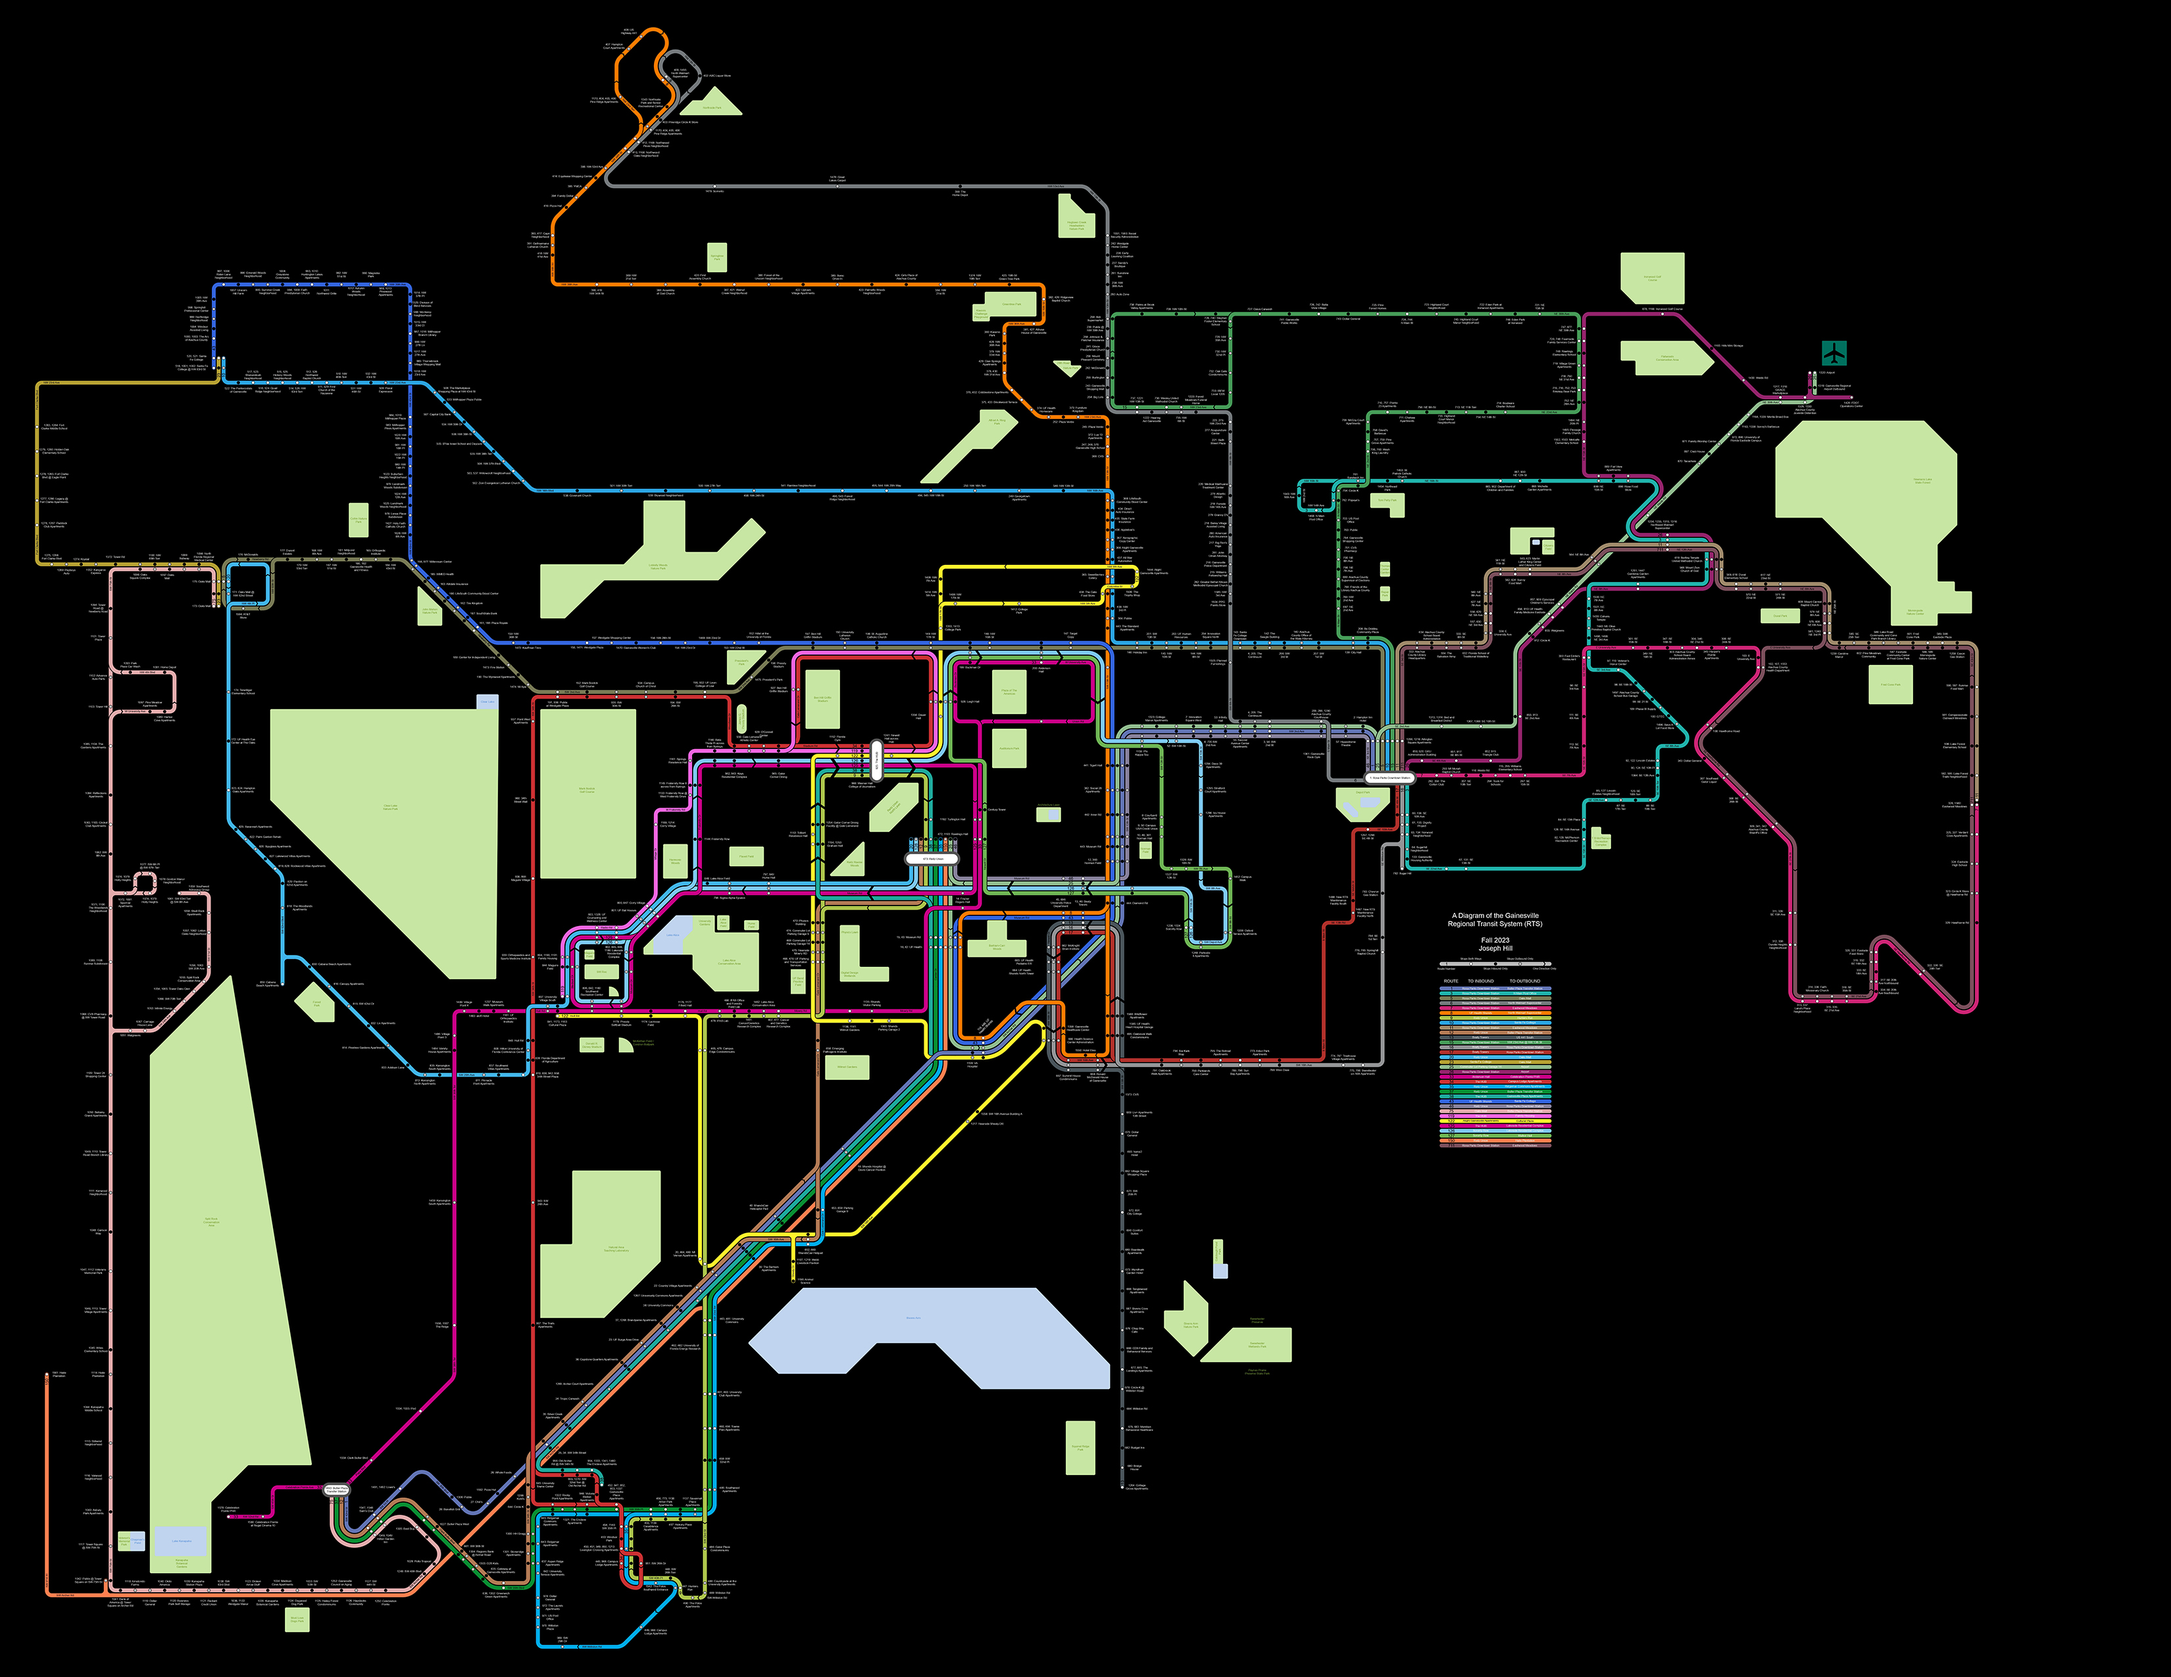
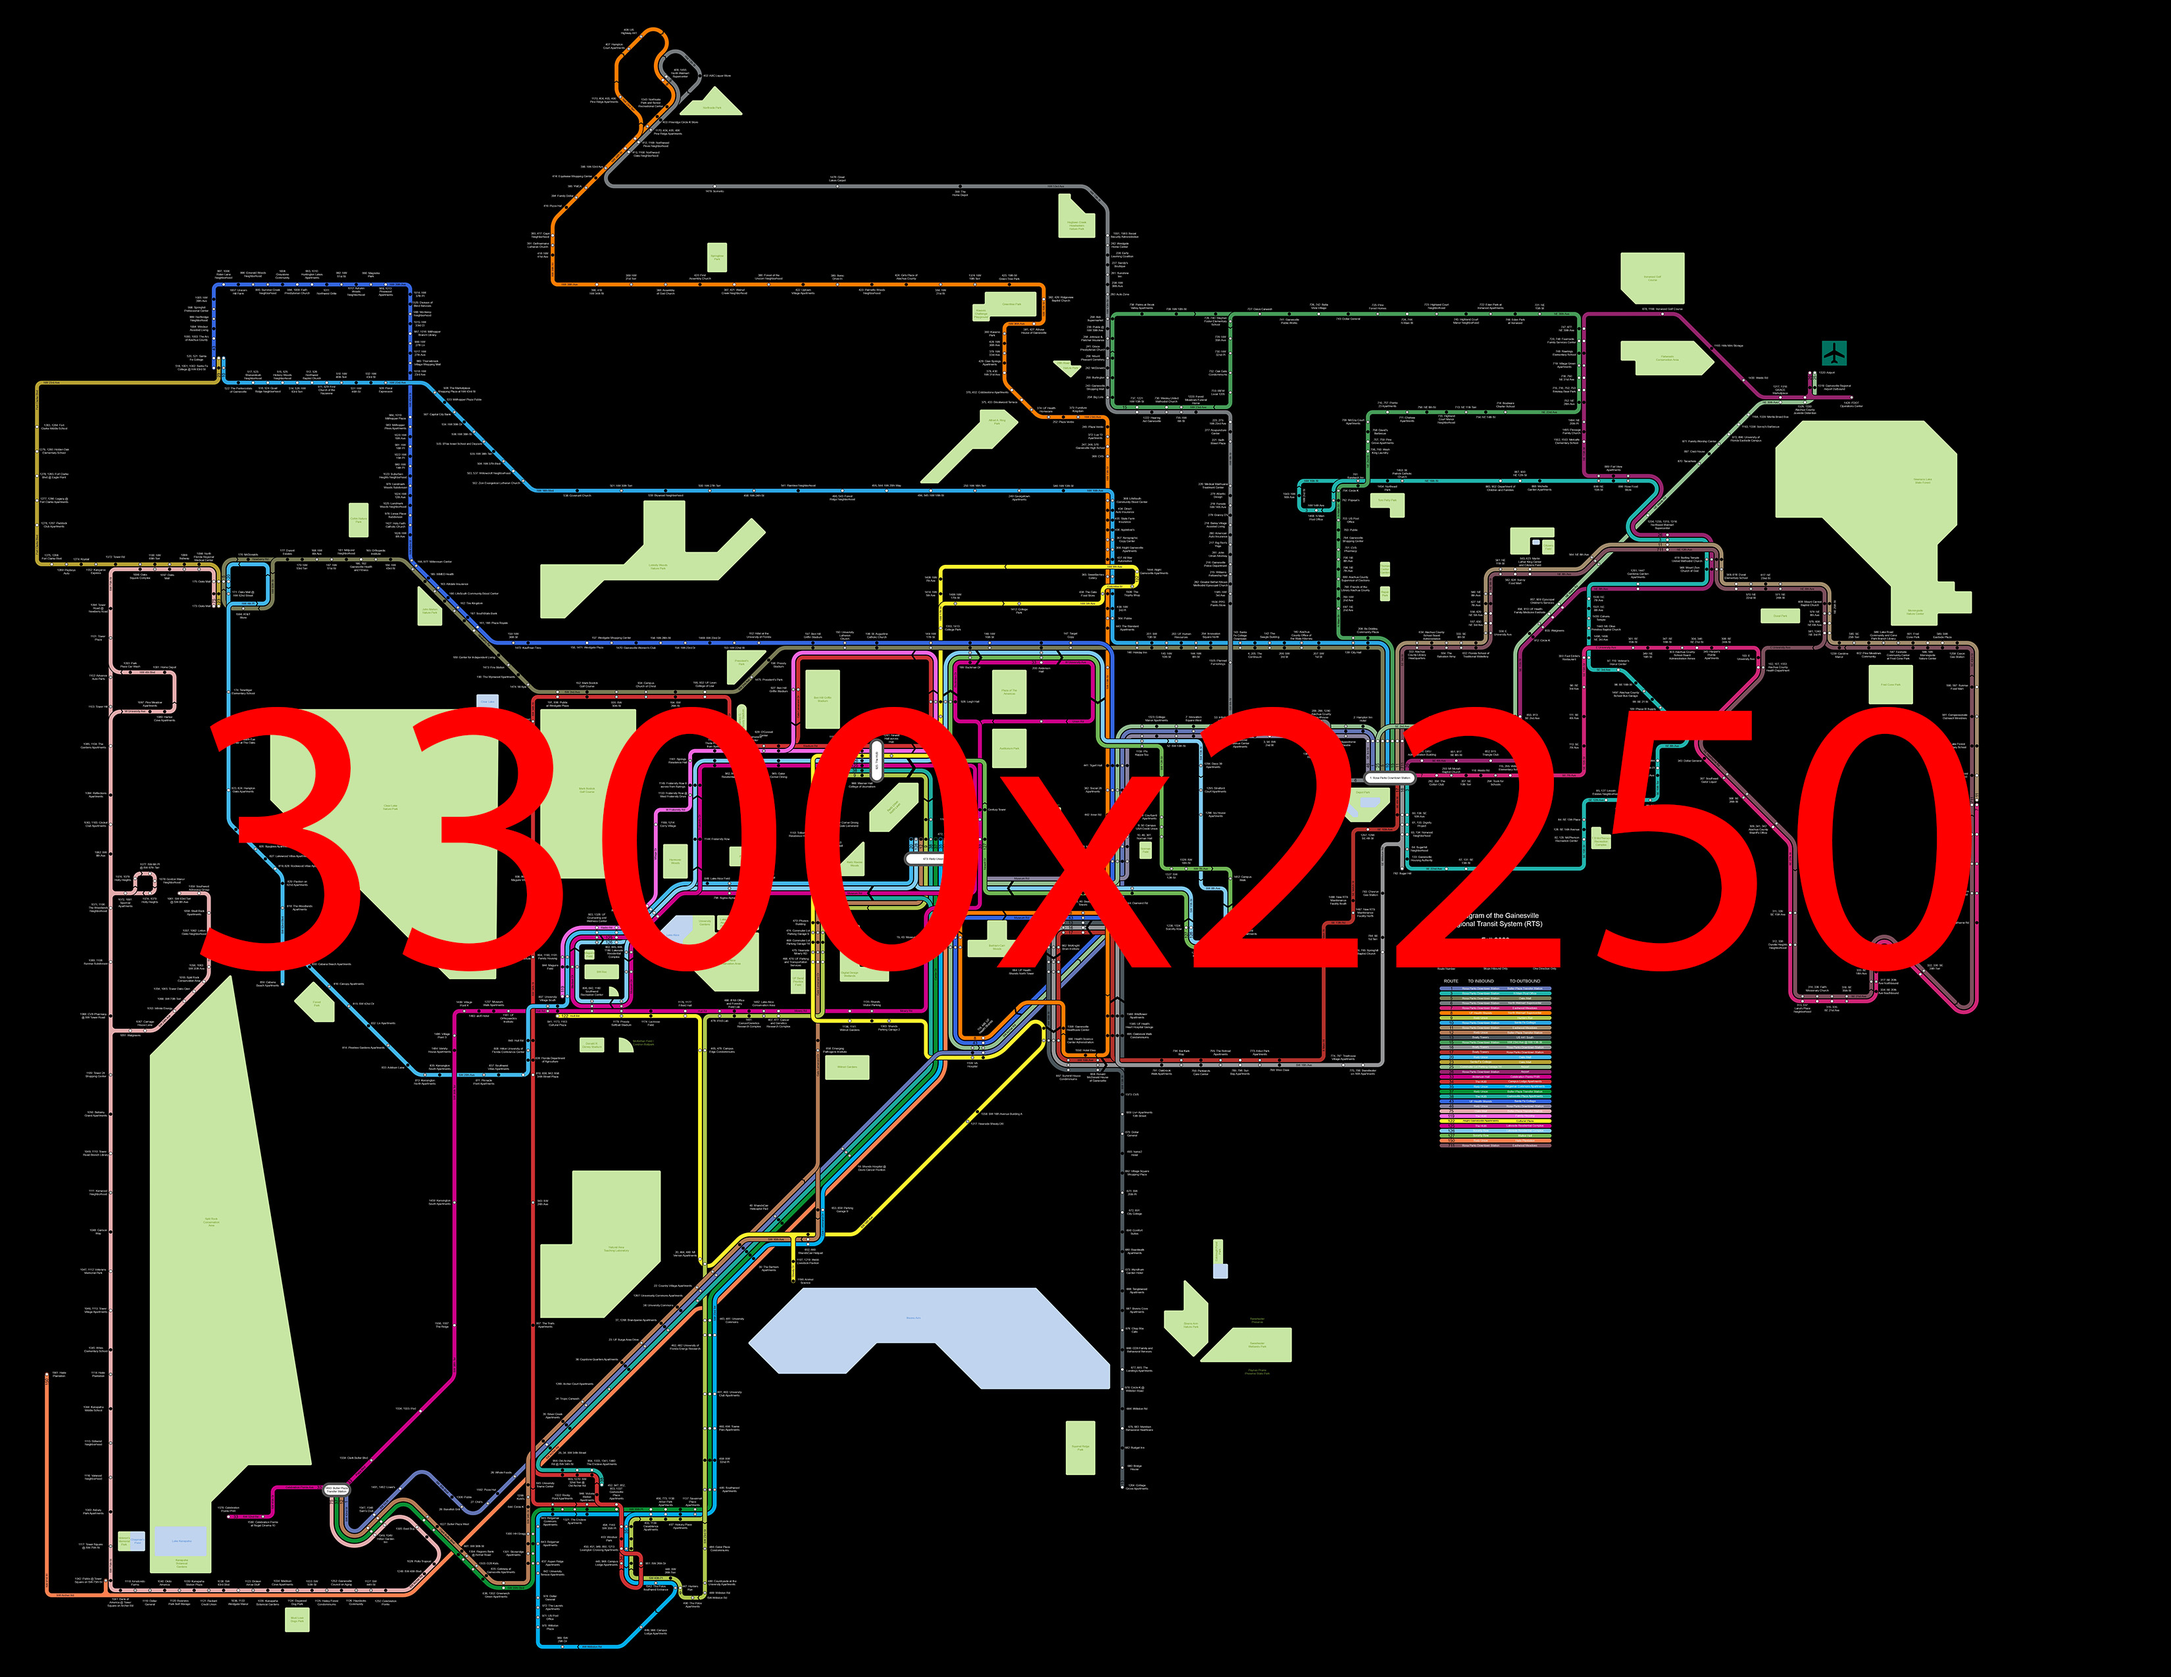
added res markers

Changed region(s): [[0.0936, 0.4027, 0.9052, 0.5886]]

diff --git a/index - Copy.html b/index - Copy.html
@@ -2,7 +2,6 @@
 <body>
 	<script src='https://cdn.jsdelivr.net/gh/JoeCode00/iterable.design@main/js/jquery/jquery.min.js' id='jquery-core-js'></script>
 	<script src='https://cdn.jsdelivr.net/gh/JoeCode00/iterable.design@main/js/jquery/ui/core.min.js' id='jquery-ui-core-js'></script>
-	
 	<script src='https://cdn.jsdelivr.net/gh/JoeCode00/iterable.design@main/js/jquery/openseadragonjquery.min.js' id='jquery-core-js'></script>
 	<script src='https://cdn.jsdelivr.net/gh/JoeCode00/iterable.design@main/js/openseadragon.min.js' id='openseadragon-js'></script>
 	<script type='text/javascript'>jQuery(document).ready(function(){var viewer=OpenSeadragon({id: 'deepzoomContainer1',prefixUrl:'https://cdn.jsdelivr.net/gh/JoeCode00/iterable.design@main/images/openseadragon/',
@@ -11,9 +10,13 @@
 	,tileSources: [
 					{title: 'Monte Verde\'s, Costa Rica © Alexey Tikhonov', type: 'legacy-image-pyramid',
 					levels:[
-	
-						{url: 'https://cdn.jsdelivr.net/gh/JoeCode00/iterable.design@main/images/RTS%20Tube%20Fall%202023%20Dark%20Mode.jpg'
-						,width: 13200,height:10200}]},
+						{url: 'https://cdn.jsdelivr.net/gh/JoeCode00/iterable.design@main/images/RTS%20Tube%20Fall%202023%20Dark%20Mode%201320x1020.jpg',	width: 1320,	height:1020},
+						{url: 'https://cdn.jsdelivr.net/gh/JoeCode00/iterable.design@main/images/RTS%20Tube%20Fall%202023%20Dark%20Mode%203300x2250.jpg',	width: 3300,	height:2250},
+						{url: 'https://cdn.jsdelivr.net/gh/JoeCode00/iterable.design@main/images/RTS%20Tube%20Fall%202023%20Dark%20Mode%206600x5100.jpg',	width: 6100,	height:5100},
+						{url: 'https://cdn.jsdelivr.net/gh/JoeCode00/iterable.design@main/images/RTS%20Tube%20Fall%202023%20Dark%20Mode%2013200x10200.jpg',	width: 13200,	height:10200},
+						
+						
+						]},
 						
 								]});
 		viewer.curItem=viewer.initialPage;

diff --git a/trialopenseadragon.html b/trialopenseadragon.html
@@ -9,8 +9,10 @@
 					{title: 'Monte Verde\'s, Costa Rica © Alexey Tikhonov', type: 'legacy-image-pyramid',
 					levels:[
 	
-						{url: 'https://cdn.jsdelivr.net/gh/JoeCode00/iterable.design@main/images/RTS%20Tube%20Fall%202023%20Dark%20Mode.jpg'
-						,width: 13200,height:10200}]},
+						{url: 'https://cdn.jsdelivr.net/gh/JoeCode00/iterable.design@main/images/RTS%20Tube%20Fall%202023%20Dark%20Mode%2013200x10200.jpg',	width: 13200,	height:10200},
+						{url: 'https://cdn.jsdelivr.net/gh/JoeCode00/iterable.design@main/images/RTS%20Tube%20Fall%202023%20Dark%20Mode%206600x5100.jpg',	width: 6100,	height:5100},
+						{url: 'https://cdn.jsdelivr.net/gh/JoeCode00/iterable.design@main/images/RTS%20Tube%20Fall%202023%20Dark%20Mode%203300x2250.jpg',	width: 3300,	height:2250},
+						{url: 'https://cdn.jsdelivr.net/gh/JoeCode00/iterable.design@main/images/RTS%20Tube%20Fall%202023%20Dark%20Mode%201320x1020.jpg',	width: 1320,	height:1020}]},
 						
 								]});
 		viewer.curItem=viewer.initialPage;
